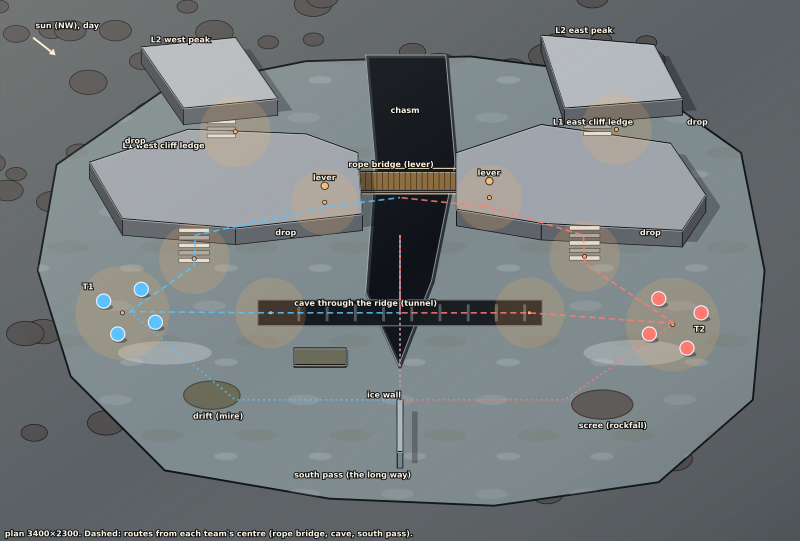
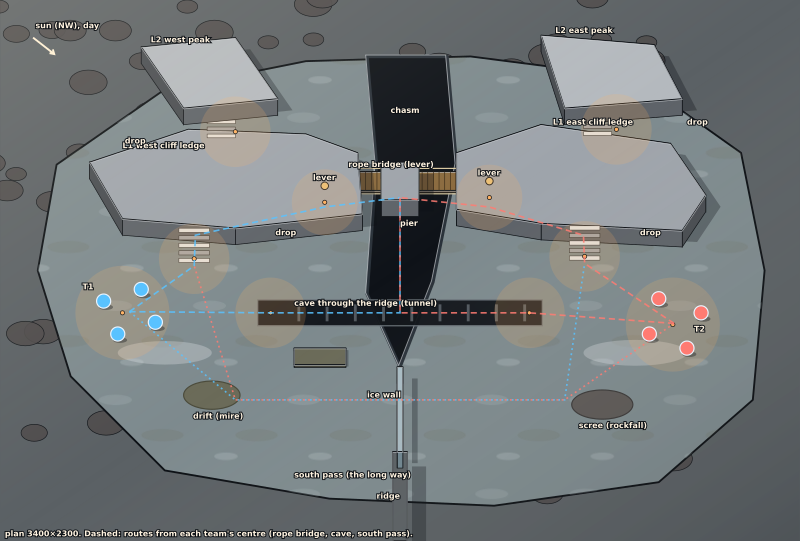
#3392: Shiverpeak pier, wall meets chasm and ridge, bridge start and worst case

Changed region(s): [[0.4688, 0.2957, 0.5625, 0.4436], [0.4688, 0.8281, 0.5312, 0.9464], [0.4688, 0.6802, 0.5312, 0.7689]]

diff --git a/docs/art/3073-shiverpeak-pass.md b/docs/art/3073-shiverpeak-pass.md
@@ -25,12 +25,14 @@ drop-offs, wind and snow) is kept.
   exactly as wide as the walkable floor (#3179).
 - **Drop-offs (4):** both cliff ledges' south edges to the floor, and both peak ledges down to their cliff
   ledge. The **chasm** itself is a drop too: the unwalkable band, drawn as a dark void
-  with a lit lip, open at its south end (y 1250..1560).
+  with a lit lip, open at its south end (y 1250..1560), its tip at (1700,1560).
 - **Elements:** two brass **levers**, one on each cliff ledge ((1380,860) and (2080,840)), work the
-  **rope bridge** (L1 height, 420 long, 80 wide). The bridge is lever-driven, so when it is down there
-  is still the **cave** (8.2 / 8.3 s) and the **south pass** round the chasm's end (11.0 / 10.9 s): nobody
-  is cut off, the same rule as Moss Vale's drawbridge. A **breakable ice wall** stands across the
-  south pass at x 1688, y 1700..1920, shutting the straight walk until it is broken. Zones: `mire`
+  **rope bridge** (L1 height, 420 long, 80 wide). The bridge **starts up** (raised) and a lever
+  lowers it. The **middle** is a stone **pier** (L1, 160 × 160, centred (1700,840)) standing in the chasm under the
+  bridge's middle: the bridge is two spans to it. The **cave** runs under the chasm and ends in a stair
+  up inside the pier (one more transition, five in all). A **breakable ice wall** (x 1688, y 1560..1920)
+  runs from the chasm's tip to a rock **ridge** (y 1920 to the south outline), so the south pass is
+  shut until the wall is broken: there is no way round it. Zones: `mire`
   (a deep drift, west, (900,1680)) and `rockfall` (loose scree, east, (2560,1720)), both south of the
   routes, ≥ 200 u from a spawn. Atmosphere (existing, #3032): low wind drifts and snow. If the wind is meant to
   push or slow, that is a mechanic: not designed here.
@@ -43,13 +45,19 @@ drop-offs, wind and snow) is kept.
 ## Routes and balance (base speed 180 u/s)
 
 Four seats a side, T1 centred (550,1325) in the west mouth, T2 (2865,1375) in the east. The centre is the
-chasm's middle landing, (1700,1000). Walk from spawn to the centre is 7.5 s by the bridge, well under any cap.
+pier, (1700,840). Walk from spawn to it is 7.5 s by the bridge (lowered), 9.1 s by the cave.
 
-| Route (T1 / T2)                                      | Length        | Walk          |
-| ---------------------------------------------------- | ------------- | ------------- |
-| rope bridge (stair, up the ledge, across the bridge) | 1353 / 1377 u | 7.5 / 7.7 s   |
-| cave (mouth, under the chasm, up to the landing)     | 1480 / 1497 u | 8.2 / 8.3 s   |
-| south pass (round the chasm's southern end)          | 1986 / 1967 u | 11.0 / 10.9 s |
+| Route (T1 / T2)                                        | Length        | Walk          |
+| ------------------------------------------------------ | ------------- | ------------- |
+| to the pier: rope bridge (stair, ledge, bridge)        | 1353 / 1377 u | 7.5 / 7.7 s   |
+| to the pier: cave (mouth, under the chasm, pier stair) | 1640 / 1657 u | 9.1 / 9.2 s   |
+| to the far stair foot: south pass (wall broken)        | 2572 / 2564 u | 14.3 / 14.2 s |
+
+**Worst case.** Bridge up and wall standing: each spawn still has the cave to the pier, and its own
+ledge by its own stair, but the far side is cut off until a lever is pulled or the wall is broken.
+The bridge is up at the start, so the opening is the cave (9.1 s) and the levers, which sit on ledges
+reached without the bridge. With the bridge down the pier has two routes per spawn (bridge, cave);
+with it up, one route to the pier (cave) but two ways to progress (lever, wall). Crossing needs a lever or the wall.
 
 The walks are within 2 % T1 / T2. The sides differ on purpose: the west peak is smaller (111 k u²)
 than the east (132 k u², 16 % larger, so within 25 %), the ledges' outlines differ, the overhang sits
